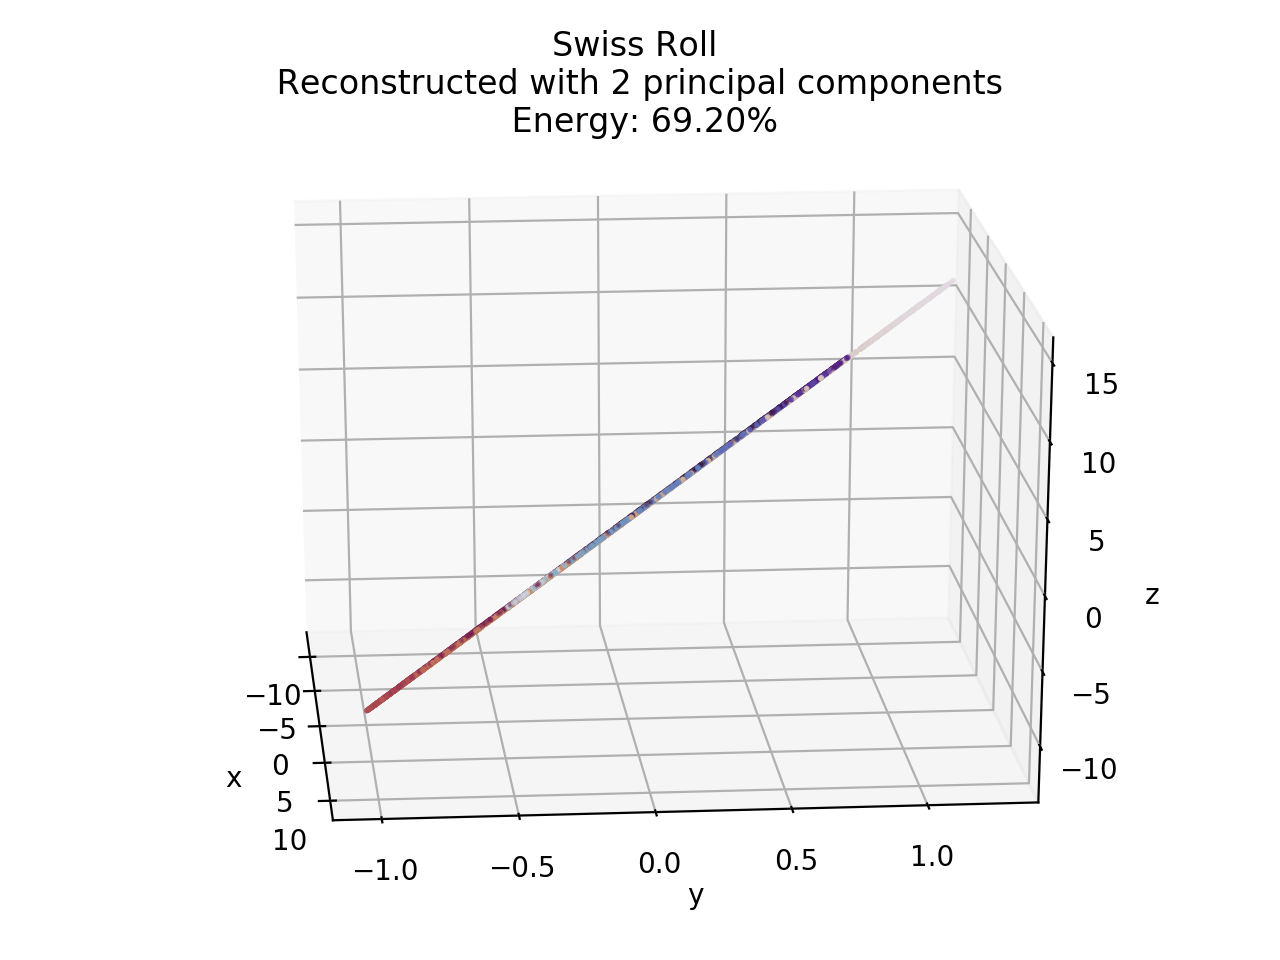
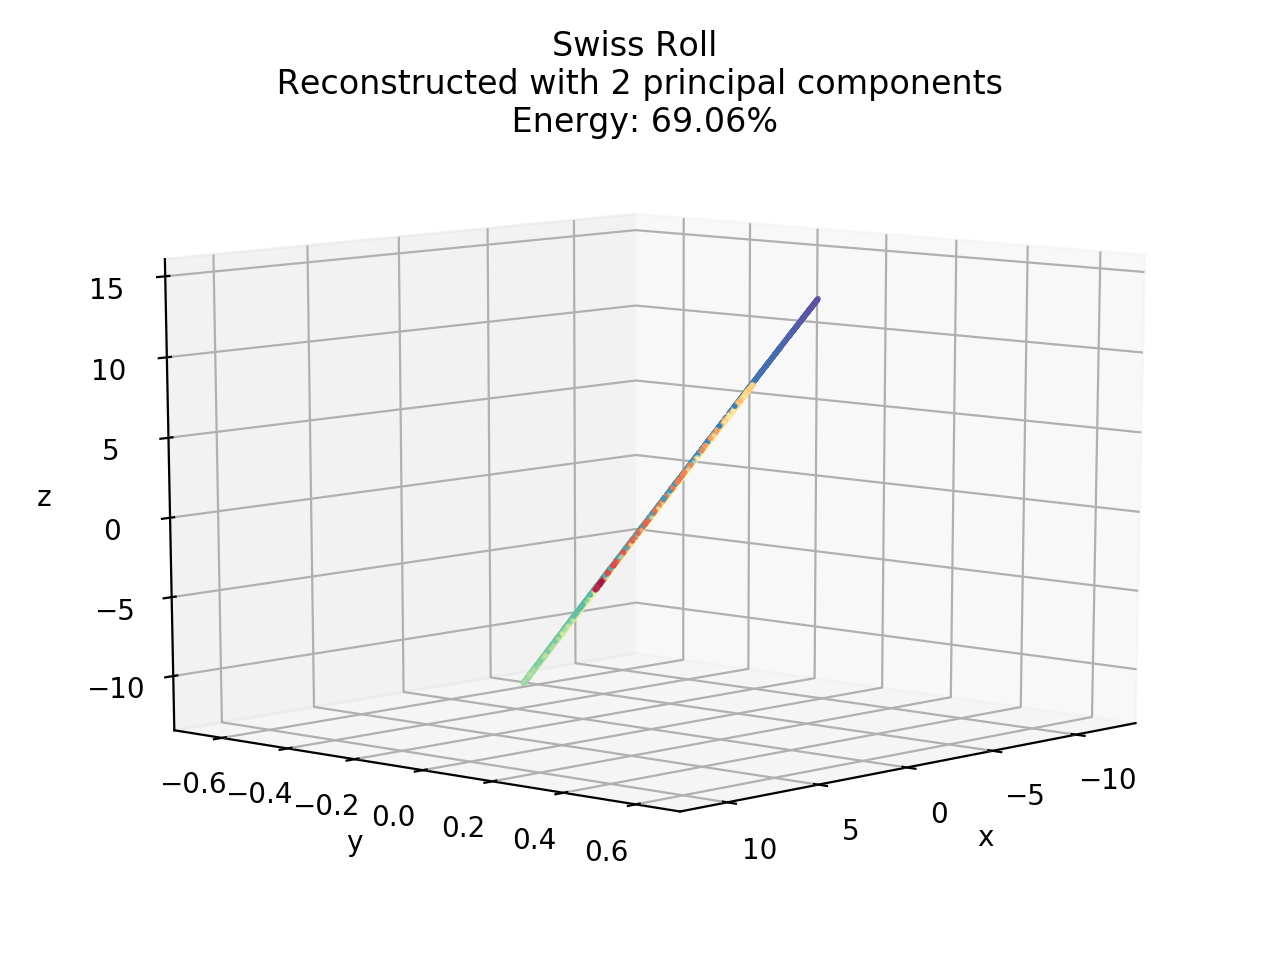
Plot fixes

diff --git a/task2/task2.py b/task2/task2.py
@@ -10,6 +10,11 @@ import sys
 sys.path.append('../')
 from Util import read_file, MAIN_PATH
 
+import datafold.dynfold as dfold
+import datafold.pcfold as pfold
+from datafold.utils.plot import plot_pairwise_eigenvector
+from datafold.dynfold import LocalRegressionSelection
+
 def generate_points(N):
     """
     Generate periodic data set
@@ -35,7 +40,7 @@ def plot_generated_points(X):
     ax.set_xlabel('x')
     ax.set_ylabel('y')
     plt.tight_layout()
-    plt.savefig('part_1_generated_points.png')
+    #plt.savefig('part_1_generated_points.png')
     plt.show()
 
 
@@ -101,7 +106,7 @@ def diffusion_map_algorithm(X,L):
     # 10. Compute the eigenvectors φl of the matrix T = Q−1K by φl = Q−1/2vl.
     S = np.matmul(Q_inverse, v_l.T)
 
-    return S #* lambda_l
+    return S, lambda_l  # S * lambda_l
 
 
 def plot_5_eigenfunctions(tk,S):
@@ -120,56 +125,85 @@ def plot_5_eigenfunctions(tk,S):
     fig.text(0.5, 0.005, '$t_k$', ha='center')
     fig.text(0.005, 0.5, '$\phi_l(x_k)$', va='center', rotation='vertical')
     plt.tight_layout()
-    plt.savefig('part_1_eigenfunctions_5.png')
+   # plt.savefig('part_1_eigenfunctions_5.png')
     plt.show()
 
-def plot_eigenfunctions(S):
-    fig, ((ax1, ax2, ax3), (ax4, ax5, ax6), (ax7, ax8, ax9)) = plt.subplots(3, 3, figsize=(12,12))
+def plot_eigenfunctions(S,t):
+    fig, ((ax0, ax1, ax2), (ax3, ax4, ax5), (ax6, ax7, ax8)) = plt.subplots(3, 3, figsize=(12,12))
     # Skipping φ0 since it is constant
-    ax1.scatter(S[:, 1], S[:, 2], color='mediumpurple', s=1)
+    ax0.scatter(S[:, 1], S[:, 0], c=t, cmap="Spectral", s=1)
+    ax0.set_ylabel('$\phi_0$')
+    ax1.scatter(S[:, 1], S[:, 2], c=t, cmap="Spectral", s=1)
     ax1.set_ylabel('$\phi_2$')
-    ax2.scatter(S[:, 1], S[:, 3], color='mediumpurple', s=1)
+    ax2.scatter(S[:, 1], S[:, 3], c=t, cmap="Spectral", s=1)
     ax2.set_ylabel('$\phi_3$')
-    ax3.scatter(S[:, 1], S[:, 4], color='mediumpurple', s=1)
+    ax3.scatter(S[:, 1], S[:, 4], c=t, cmap="Spectral", s=1)
     ax3.set_ylabel('$\phi_4$')
-    ax4.scatter(S[:, 1], S[:, 5], color='mediumpurple', s=1)
+    ax4.scatter(S[:, 1], S[:, 5], c=t, cmap="Spectral", s=1)
     ax4.set_ylabel('$\phi_5$')
-    ax5.scatter(S[:, 1], S[:, 6], color='mediumpurple', s=1)
+    ax5.scatter(S[:, 1], S[:, 6], c=t, cmap="Spectral", s=1)
     ax5.set_ylabel('$\phi_6$')
-    ax6.scatter(S[:, 1], S[:, 7], color='mediumpurple', s=1)
+    ax6.scatter(S[:, 1], S[:, 7], c=t, cmap="Spectral", s=1)
     ax6.set_ylabel('$\phi_7$')
-    ax7.scatter(S[:, 1], S[:, 8], color='mediumpurple', s=1)
+    ax7.scatter(S[:, 1], S[:, 8], c=t, cmap="Spectral", s=1)
     ax7.set_ylabel('$\phi_8$')
-    ax8.scatter(S[:, 1], S[:, 9], color='mediumpurple', s=1)
+    ax8.scatter(S[:, 1], S[:, 9], c=t, cmap="Spectral", s=1)
     ax8.set_ylabel('$\phi_9$')
-    ax9.scatter(S[:, 1], S[:, 10], color='mediumpurple', s=1)
-    ax9.set_ylabel('$\phi_{10}$')
 
     fig.text(0.5, 0.005, '$\phi_1$', ha='center')
     plt.tight_layout()
-    plt.savefig('part_2_eigenfunctions_versus_10_1000p.png')
+    plt.savefig('deneme_1000p.png')
     plt.show()
 
 def plot_swiss_roll(X,time):
     fig = plt.figure()
     ax0 = fig.gca(projection='3d')
-    ax0.scatter(X[:, 0], X[:, 1], X[:, 2], c=time, cmap="twilight", s=1)
+    ax0.scatter(X[:, 0], X[:, 1], X[:, 2], c=time, cmap="Spectral", s=1)
     ax0.set_xlabel('x')
     ax0.set_ylabel('y')
     ax0.set_zlabel('z')
     ax0.set_title("Swiss Roll")
     plt.show()
 
-def main():
+def bonus():
+    nr_samples = 5000
+    # reduce number of points for plotting
+    nr_samples_plot = 1000
+    idx_plot = np.random.permutation(nr_samples)[0:nr_samples_plot]
 
+    # generate point cloud
+    X, X_color =make_swiss_roll(nr_samples, noise=0.0, random_state=None)
+
+    X_pcm = pfold.PCManifold(X)
+    X_pcm.optimize_parameters(result_scaling=0.5)
+    print(f'epsilon={X_pcm.kernel.epsilon}, cut-off={X_pcm.cut_off}')
+
+    dmap = dfold.DiffusionMaps(kernel=pfold.GaussianKernel(epsilon=X_pcm.kernel.epsilon), n_eigenpairs=9,
+                               dist_kwargs=dict(cut_off=X_pcm.cut_off))
+    dmap = dmap.fit(X_pcm)
+    evecs, evals = dmap.eigenvectors_, dmap.eigenvalues_
+    print(evecs.shape)
+    print(evals.shape)
+
+    plot_pairwise_eigenvector(eigenvectors=dmap.eigenvectors_[idx_plot, :], n=1,
+                              fig_params=dict(figsize=[15, 15]),
+                              scatter_params=dict(cmap=plt.cm.Spectral, c=X_color[idx_plot]))
+    plt.show()
+
+
+def main():
+    bonus()
+    '''
     ## Part 1
     N = 1000
     L = 5
     X, tk = generate_points(N)
     plot_generated_points(X)
     tk = np.array(tk)
-    S = diffusion_map_algorithm(X, L)
+    S, lambda_l = diffusion_map_algorithm(X, L)
     plot_5_eigenfunctions(tk, S)
+    #plot_eigenfunctions(S,tk)
+    '''
 
 
     ## Part 2
@@ -177,9 +211,9 @@ def main():
     L = 10
     X, t = make_swiss_roll(N, noise=0.0, random_state=None)
     plot_swiss_roll(X,t)
-    S = diffusion_map_algorithm(X,L)
-    plot_eigenfunctions(S)
-
+    S, lambda_l = diffusion_map_algorithm(X,L)
+    plot_eigenfunctions(S,t)
+    '''
     # PCA
 
     X = X - X.mean(axis=0, keepdims=True)
@@ -208,7 +242,7 @@ def main():
 
     fig = plt.figure()
     ax1 = fig.gca(projection='3d')
-    ax1.scatter(reconstructed_3[:, 0], reconstructed_3[:, 1], reconstructed_3[:, 2], c=t, cmap="twilight", s=1)
+    ax1.scatter(reconstructed_3[:, 0], reconstructed_3[:, 1], reconstructed_3[:, 2], c=t, cmap="Spectral", s=2)
     ax1.set_title("Swiss Roll \n Reconstructed with 3 principal components \n Energy: {:.2f}%".format(energy_3 * 100))
     ax1.set_xlabel('x')
     ax1.set_ylabel('y')
@@ -218,7 +252,7 @@ def main():
 
     fig = plt.figure()
     ax2 = fig.gca(projection='3d')
-    ax2.scatter(reconstructed_2[:, 0], reconstructed_2[:, 1], reconstructed_2[:, 2], c=t, cmap="twilight", s=1)
+    ax2.scatter(reconstructed_2[:, 0], reconstructed_2[:, 1], reconstructed_2[:, 2], c=t, cmap="Spectral", s=2)
     ax2.set_title("Swiss Roll \n Reconstructed with 2 principal components \n Energy: {:.2f}%".format(energy_2 * 100))
     ax2.set_xlabel('x')
     ax2.set_ylabel('y')
@@ -227,12 +261,27 @@ def main():
     plt.tight_layout()
     plt.show()
 
+'''
+'''
     ## Part 3
 
-    data = read_file('data_DMAP_PCA_vadere.txt')
+    X = read_file('data_DMAP_PCA_vadere.txt')
     L = 10
-    s = diffusion_map_algorithm(data, L)
-    plot_eigenfunctions(s)
+    time = np.arange(X.shape[0])
+    s, lambda_l = diffusion_map_algorithm(X, L)
+    plot_eigenfunctions(s,time)
+
+    # plotting lambda values
+    plt.plot(lambda_l, 'o')
+    plt.show()
+
+    
+    plot_5_eigenfunctions(time, s)
+
+
+'''
+
+
 
 
 if __name__ == '__main__':
